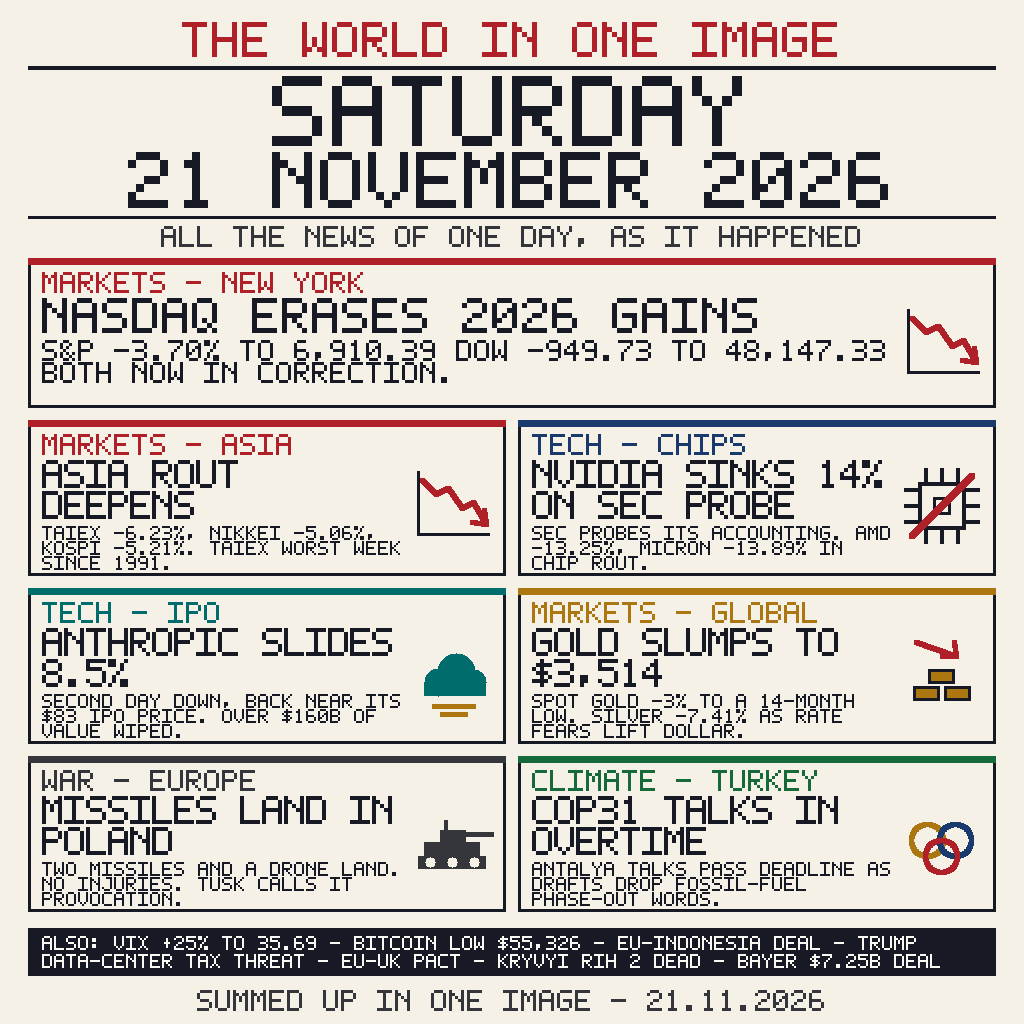
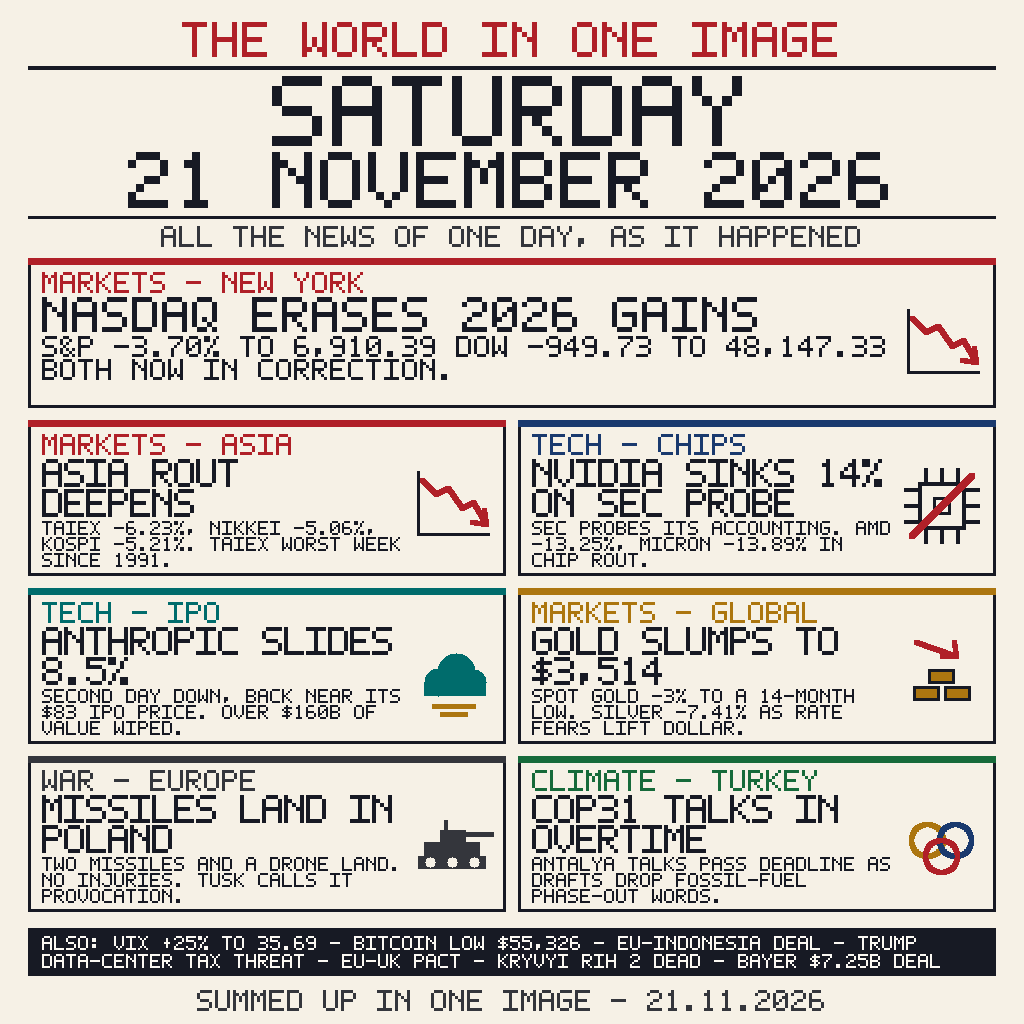
Panel leading: tighter headline step, airier body lines, more clearance above the frame

diff --git a/main.py b/main.py
@@ -280,14 +280,14 @@ def panel(p, x, y, w, h, tint, kicker, headline, body, icon,
     p.text(x + 14, y + 14, kicker, 3, tint)
     textw = w - 28 - (84 if icon else 0)
     lines = p.wrap(headline, textw, head_scale, head_track)
-    ly = y + 40
+    ly = y + 39
     for ln in lines:
         p.text(x + 14, ly, ln, head_scale, INK, head_track)
-        ly += head_scale * 7 + 3
-    by = ly + 4
+        ly += head_scale * 7 + 2
+    by = ly + 2
     for ln in p.wrap(body, textw, body_scale):
         p.text(x + 14, by, ln, body_scale, INK)
-        by += body_scale * 7 + 1
+        by += body_scale * 7 + 2
     if icon:
         ICONS[icon](p, x + w - 96, y + 44)
 
